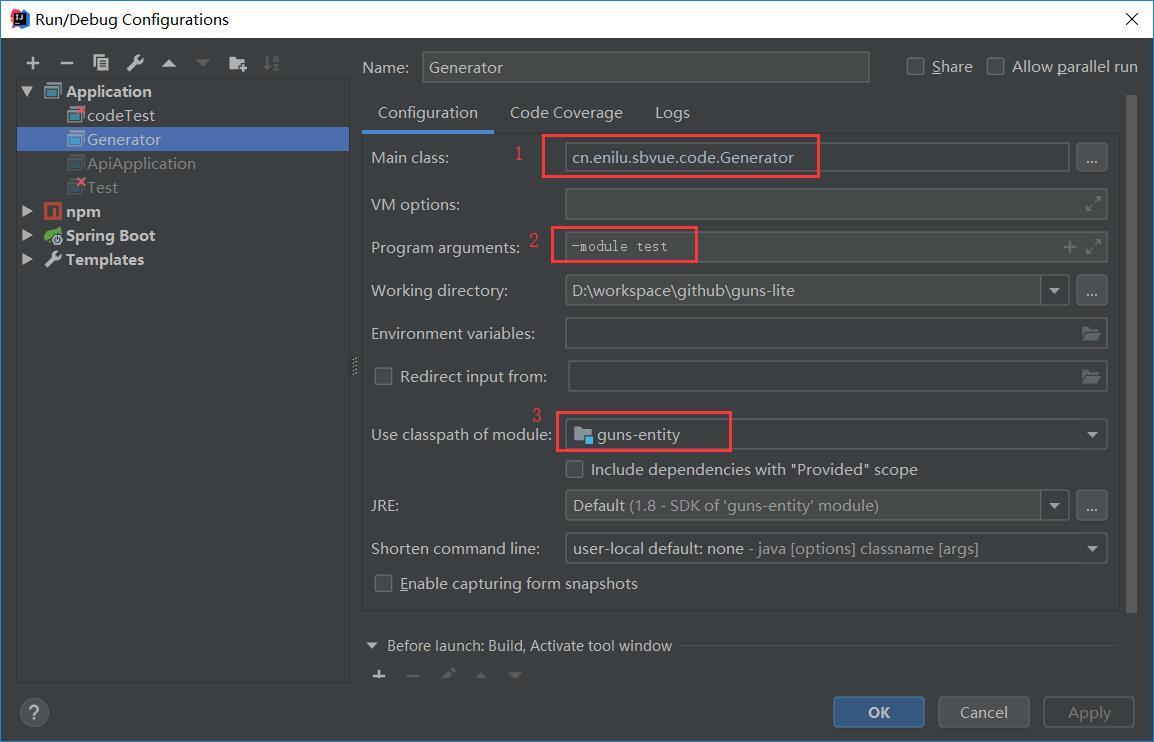
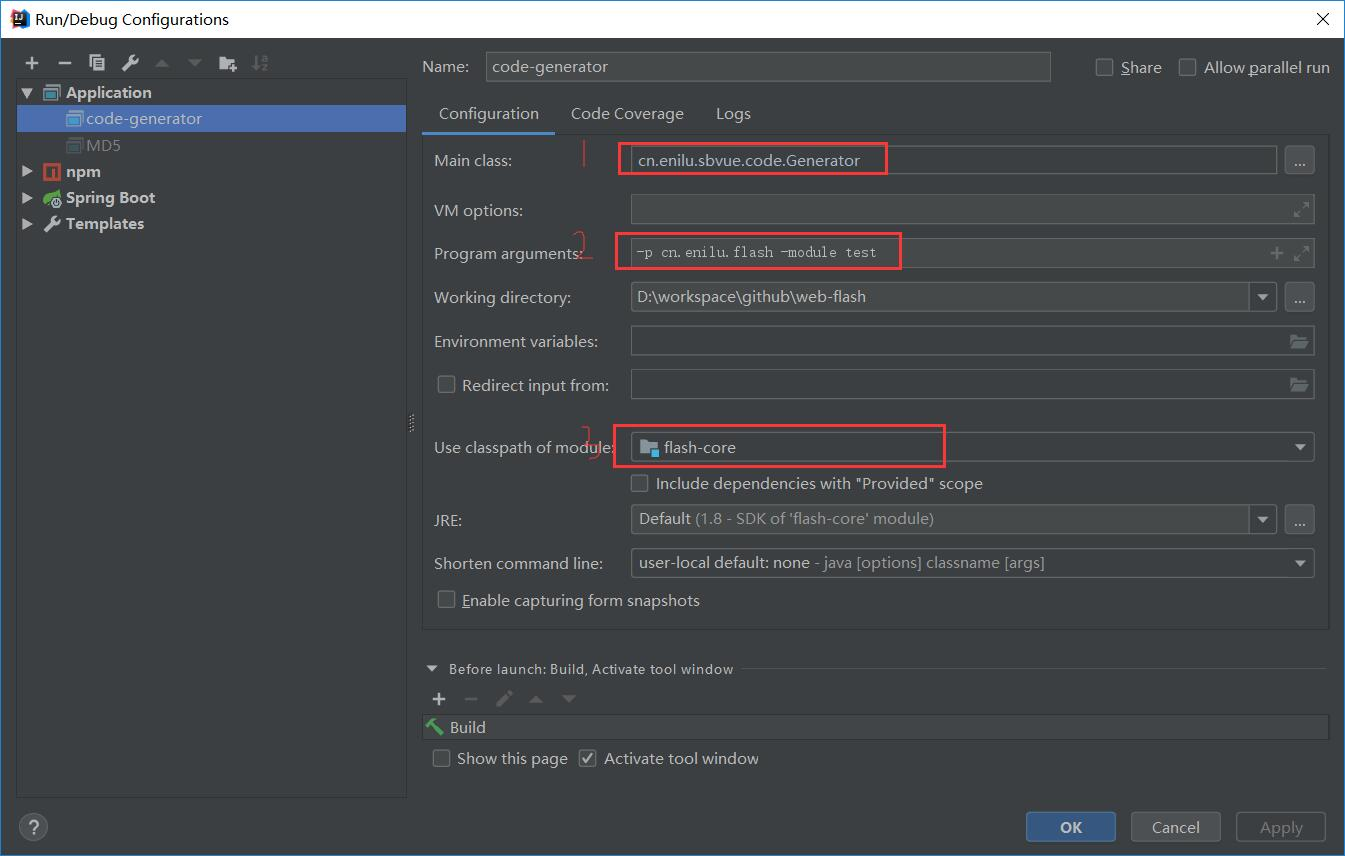
change 完善文档

diff --git a/flash-vue-admin/src/router/index.js b/flash-vue-admin/src/router/index.js
@@ -153,6 +153,14 @@ export const asyncRouterMap = [
     },
     children: [
       {
+        path: 'boy',
+        name: 'Boy',
+        component:  () => import('@/views/test/boy/index'),
+        meta: {
+          title: '鲜肉管理'
+        }
+      },
+      {
         path: 'banner',
         name: 'Banner',
         component: () => import('@/views/cms/banner/index'),

diff --git a/docs/ecosystem/code-generator.md b/docs/ecosystem/code-generator.md
@@ -12,7 +12,7 @@ git clone https://github.com/enilu/sbvue-coder.git
 cd sbvue-coder
 mvn install
 
---在web-flash的guns-entity的pom.xml文件中添加依赖：web-flash/guns-entity/pom.xml
+--在web-flash的flash-core的pom.xml文件中添加依赖：web-flash/flash-core/pom.xml
 
 <dependency>
     <groupId>cn.enilu</groupId>
@@ -26,19 +26,19 @@ mvn install
     - 上图三个配置分别为
         - 1，运行的代码生成主类
         - 2，代码生成参数,详见下面说明
-        - 3，在哪个模块中执行代码生成：guns-entity，因为代码生成是通过读取guns-entity中的实体类的注解实现，所以这里选择guns-entity
+        - 3，在哪个模块中执行代码生成：flash-core，因为代码生成是通过读取flash-core中的实体类的注解实现，所以这里选择flash-core
 
-- 新建配置文件：guns-entity/src/main/resources/code/code.json,配置文件内容如下，下面内容指定了生成的相关代码分别放在哪个模块下，考虑到有的同学可能会更改项目名和模块名，增加该配置，开发人员可以自行配置模块名
+- 新建配置文件：flash-core/src/main/resources/code/code.json,配置文件内容如下，下面内容指定了生成的相关代码分别放在哪个模块下，考虑到有的同学可能会更改项目名和模块名，增加该配置，开发人员可以自行配置模块名
 ```json
 {
   "codeConfig": {
     "type": "cn.enilu.sbvue.code.CodeConfig",
     "fields": {
-      entityModel: "guns-entity",
-      daoModel: "guns-dao",
-      serviceModel: "guns-service",
-      controllerModel: "guns-api",
-      viewModel: "guns-admin-vuejs"
+      entityModel: "flash-core",
+      daoModel: "flash-core",
+      serviceModel: "flash-core",
+      controllerModel: "flash-api",
+      viewModel: "flash-vue-admin"
     }
   }
 }
@@ -58,7 +58,7 @@ usage: Generator [options] [all|entity|service|controller|view]
  -x,--exclude <arg>       exclude table pattern
 ```   
 
-比如在Program arguments配置 -mudule test 将会根据guns-entity/src/main/java/cn/enilu/guns/bean/entity/test/目录下所有的java类生成其CRUD相关代码
+比如在Program arguments配置 -mudule test 将会根据flash-core/src/main/java/cn/enilu/guns/bean/entity/test/目录下所有的java类生成其CRUD相关代码
 
 如果程序运行参数更改为 -mudule test -i t_test_boy 将会根据上述目录下的Boy实体生成其相关CRUD代码，注意这里-i 后面的参数值是实体中配置的表名称，而不是实体名本身。
 
@@ -90,11 +90,21 @@ public class Boy extends BaseEntity {
 以Boy实体为例,执行代码生成后将会生成如下文件：
 ![run code_add](./doc/code_add.jpg)
 
-代码生成后，在guns-admin-vuejs的路由配置文件中guns-admin-vuejs/src/store/modules/permission.js，增加如下红框内容：
-
+代码生成后，在flash-vue-admin的路由配置文件中flash-vue-admin/src/router/index.js，增加如下内容：
+```javascript
+      {
+        path: 'boy',
+        name: 'Boy',
+        component:  () => import('@/views/test/boy/index'),
+        meta: {
+          title: '鲜肉管理'
+        }
+      }
+```
+如下图所示
 ![run router](./doc/router.jpg)
 
-启动guns-api和guns-admin-vuejs,配置和菜单和角色权限后就可以访问刚刚生成的代码功能了
+启动flash-api和flash-vue-admin,配置和菜单和角色权限后就可以访问刚刚生成的代码功能了
 ![run code_result](./doc/code_result.jpg)
 
 
